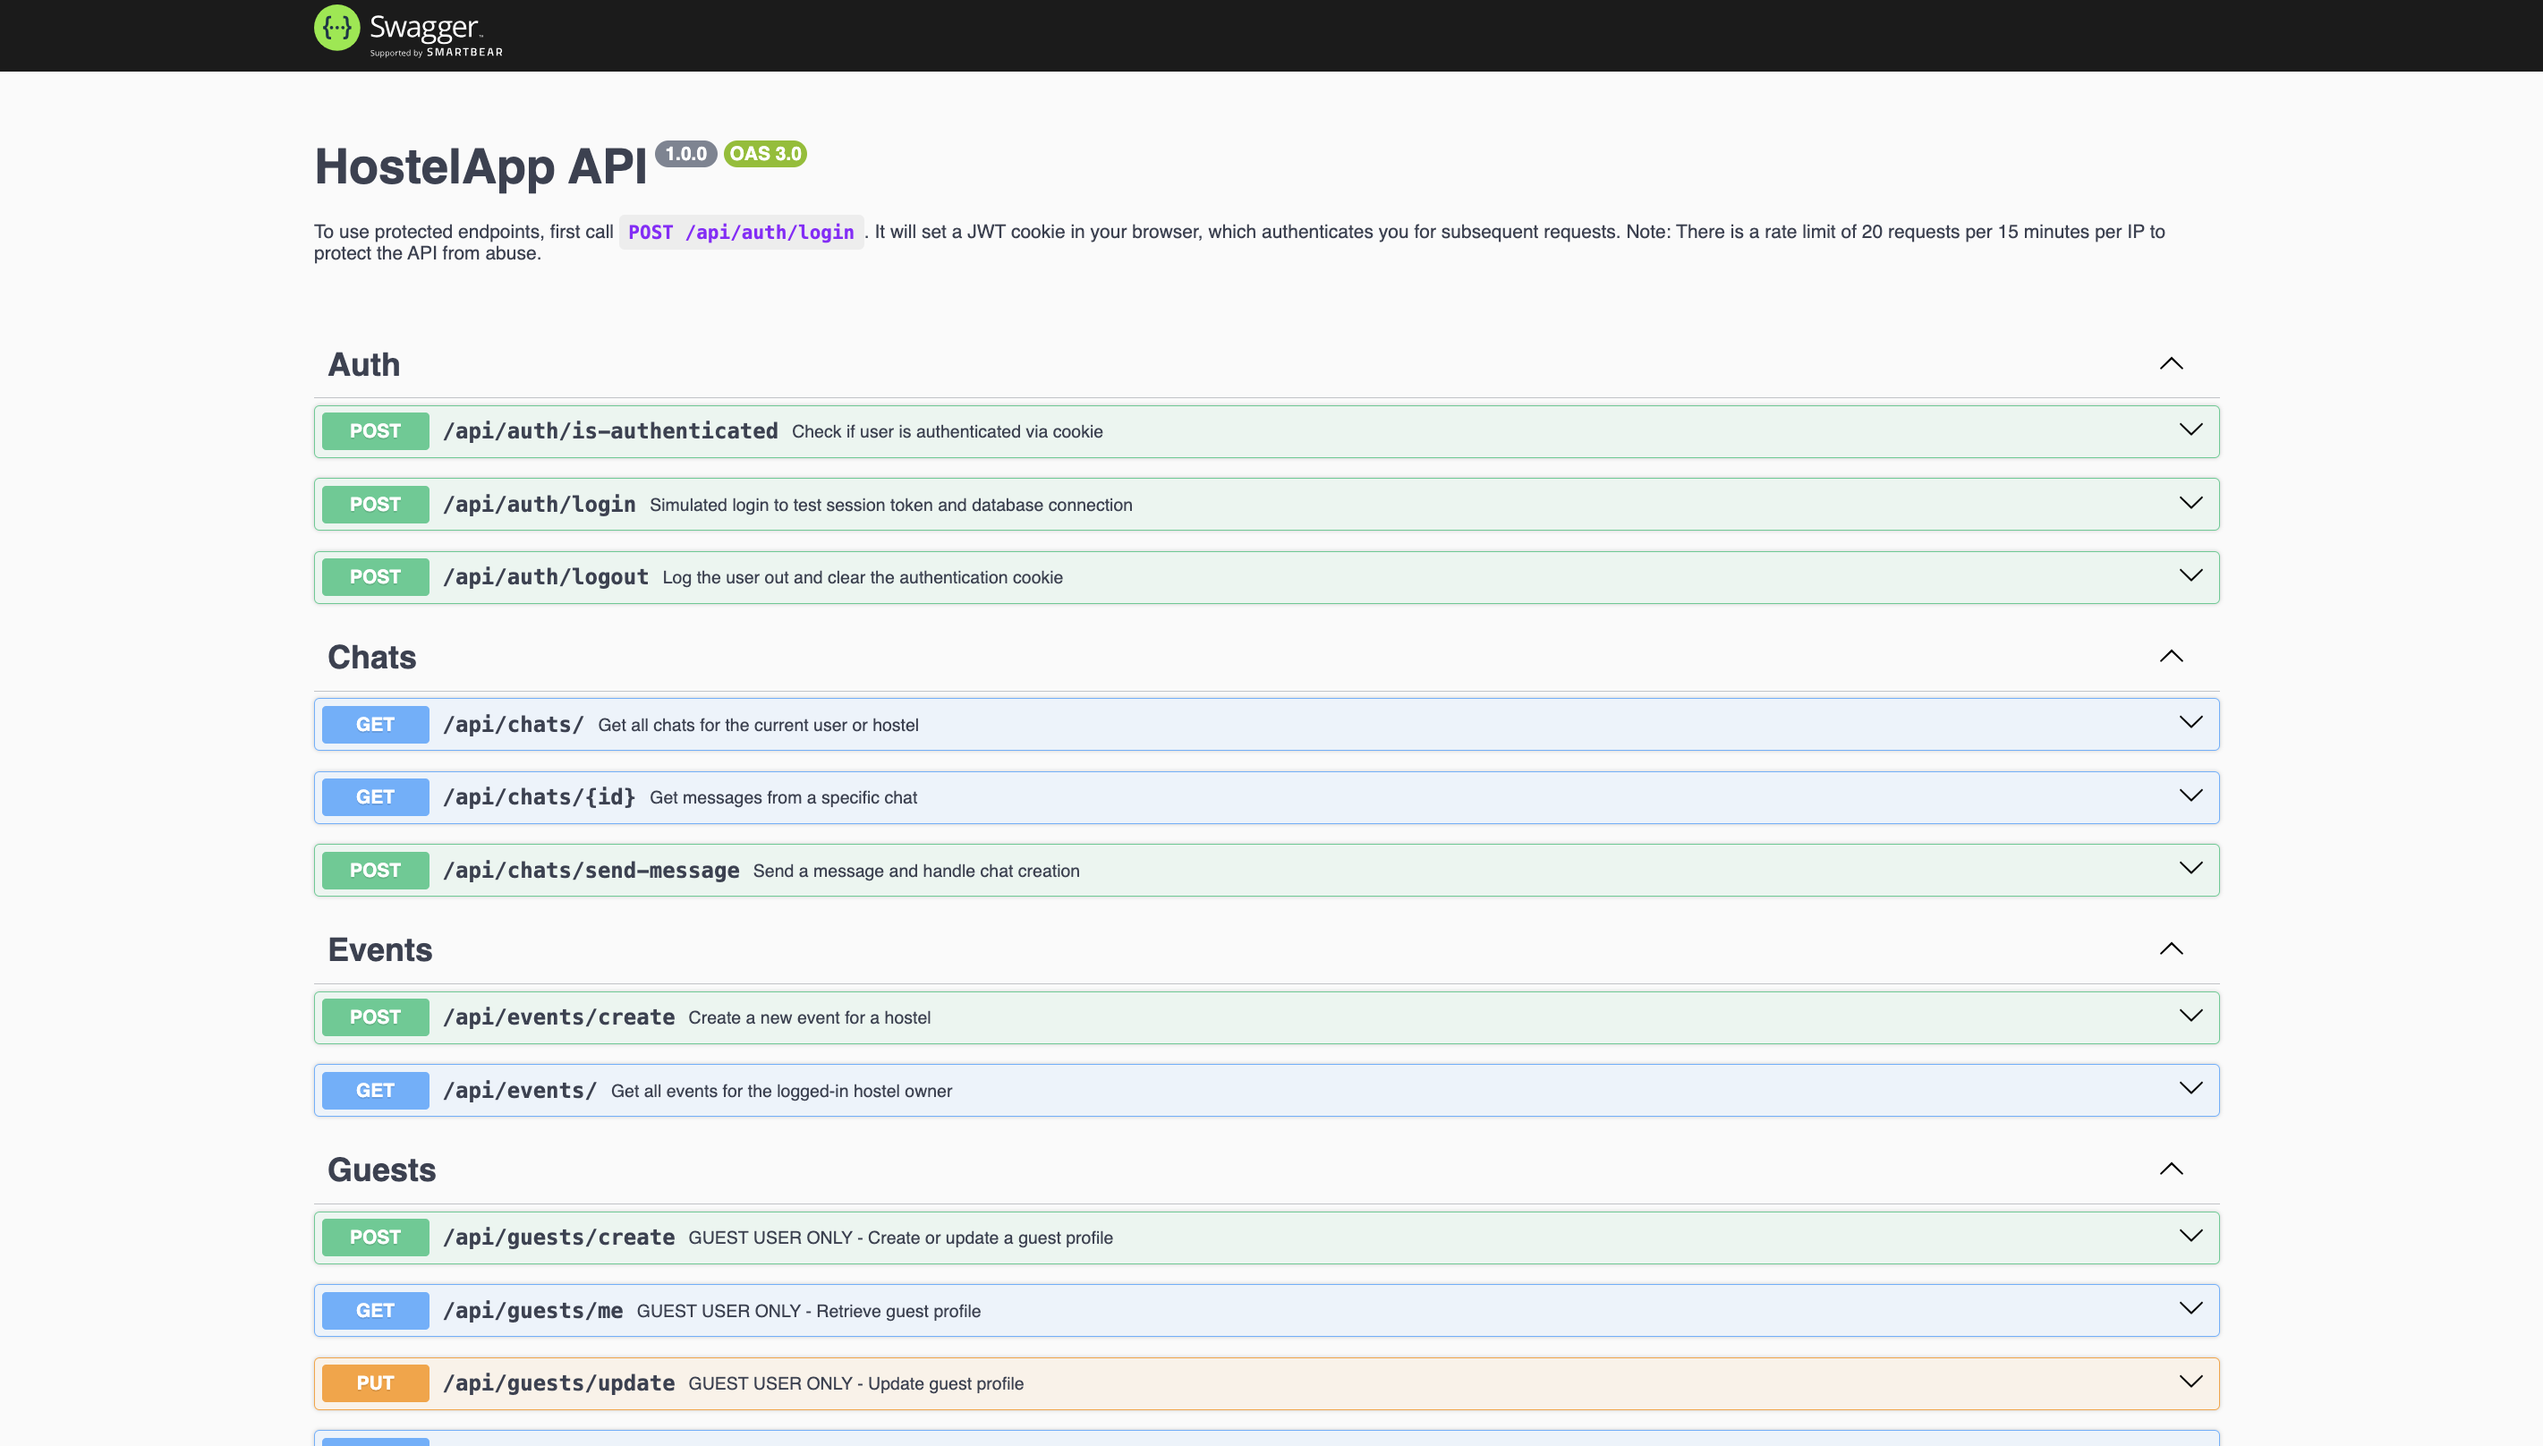
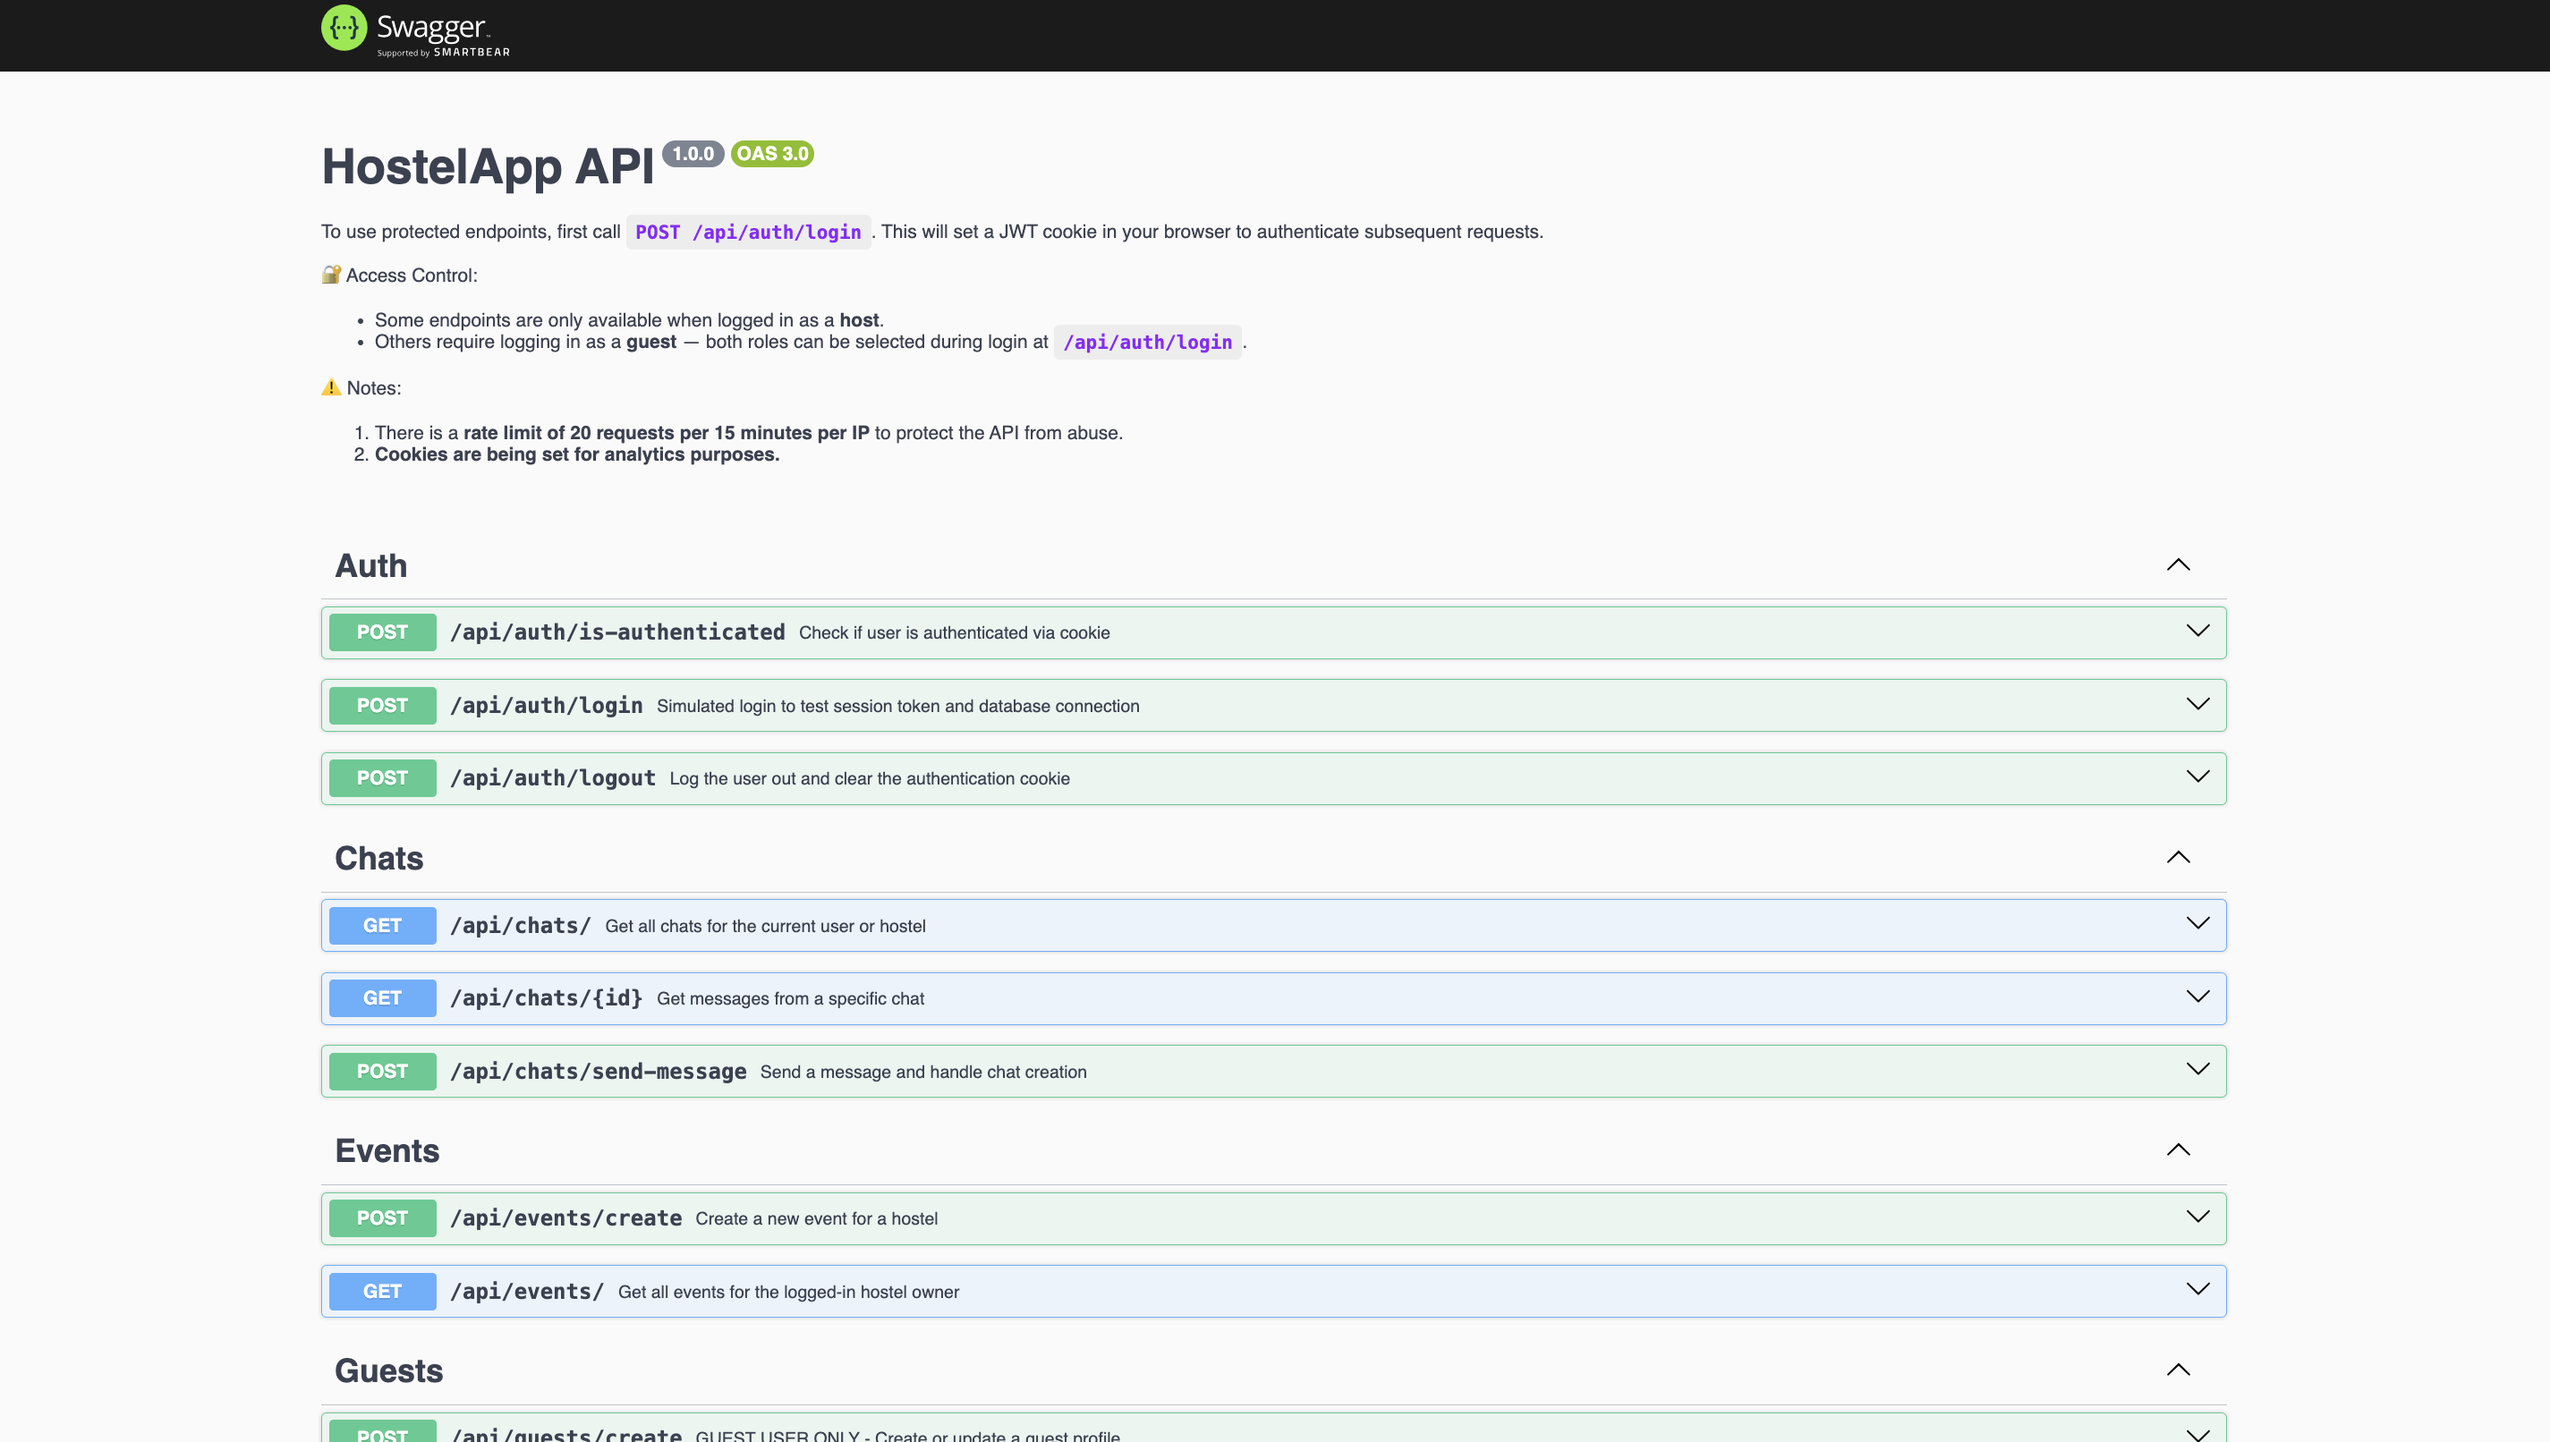
Update README

diff --git a/server.js b/server.js
@@ -57,13 +57,20 @@ app.use(logAnalyzer);
 
 // Swagger definition (OpenAPI 3.0)
 const swaggerDefinition = {
-    openapi: '3.0.0',
-    info: {
-      title: 'HostelApp API',
-      version: '1.0.0',
-      description: "To use protected endpoints, first call `POST /api/auth/login`. It will set a JWT cookie in your browser, which authenticates you for subsequent requests. Note: There is a rate limit of 20 requests per 15 minutes per IP to protect the API from abuse."
-    },
-  };
+  openapi: '3.0.0',
+  info: {
+    title: 'HostelApp API',
+    version: '1.0.0',
+    description:
+      "To use protected endpoints, first call `POST /api/auth/login`. This will set a JWT cookie in your browser to authenticate subsequent requests.\n\n" +
+      "🔐 Access Control:\n" +
+      "- Some endpoints are only available when logged in as a **host**.\n" +
+      "- Others require logging in as a **guest** — both roles can be selected during login at `/api/auth/login`.\n\n" +
+      "⚠ Notes:\n" +
+      "1. There is a **rate limit of 20 requests per 15 minutes per IP** to protect the API from abuse.\n" +
+      "2. **Cookies are being set for analytics purposes.**"
+  },
+};
 
   // Options for swagger-jsdoc
 const options = {

diff --git a/README.md b/README.md
@@ -30,7 +30,9 @@ To use the protected endpoints:
 3. After that, you'll be able to access protected routes using your browser session.
 
 It will automatically include the cookie in subsequent requests if you're using the same browser session.  
-⚠ **Note:** The API is protected with a **rate limit of 20 requests per 15 minutes per IP**.
+⚠ **Notes:** 
+- The API is protected with a **rate limit of 20 requests per 15 minutes per IP**.
+- This project also uses my own lib [api-traffic-analyzer](https://github.com/marinspira/api-traffic-analyzer) to log access activity via cookies for analytics purposes. 
 
 ## Features
 
